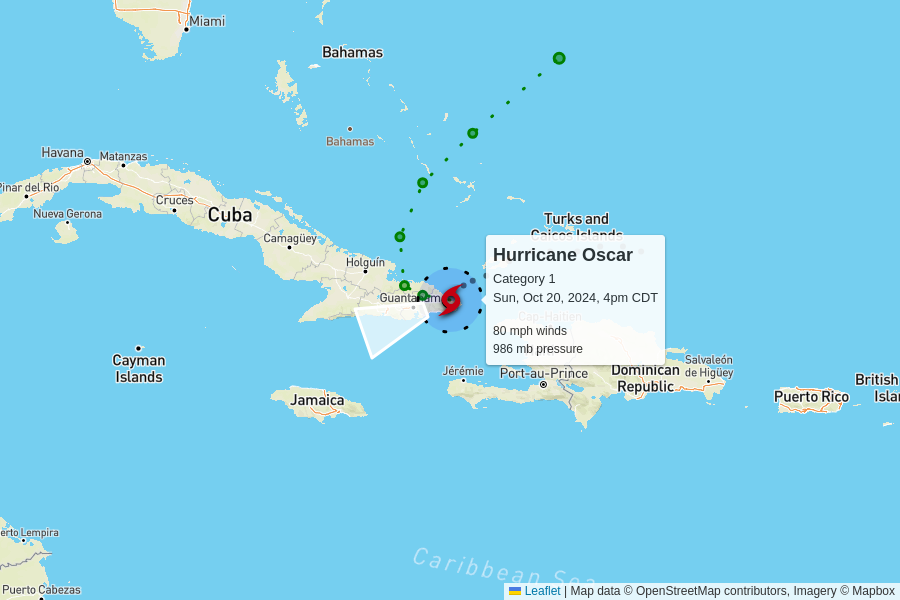
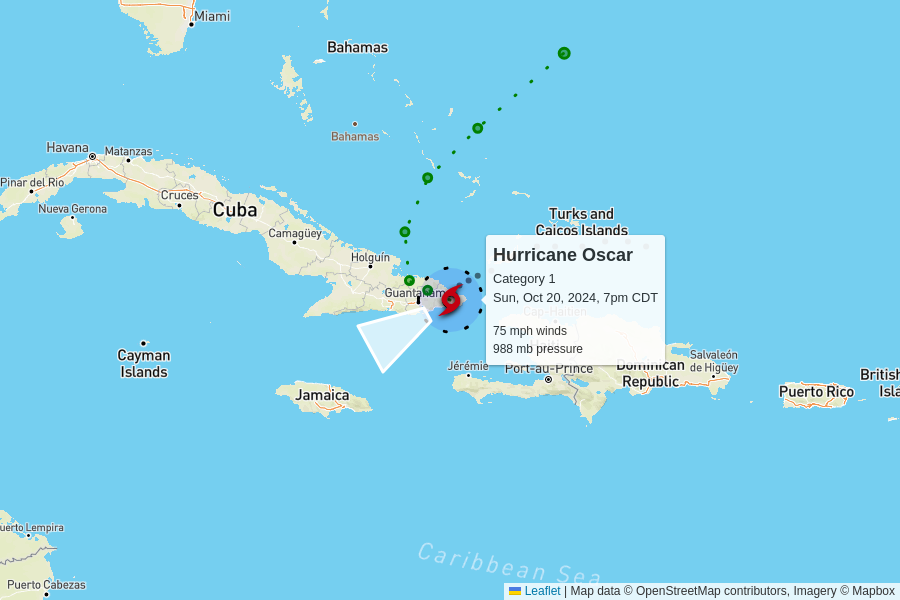
automatic update

diff --git a/docs/index.html b/docs/index.html
@@ -102,7 +102,7 @@
         <td colspan="6" class="storm category-1" >
           <h2>
             Hurricane Oscar - Category 1
-            <p class="updated">last updated <span data-time>2024-10-20T21:50:00.000Z</span></p>
+            <p class="updated">last updated <span data-time>2024-10-21T00:00:00.000Z</span></p>
           </h2>
         </td>
       </tr>
@@ -117,12 +117,12 @@
       </tr>
       <tr>
         <td class="spacer"></td>
-        <td>80 mph<br>0 mph since last update</td>
-        <td>986 mb<br>0 mb since last update</td>
+        <td>75 mph<br>-5 mph since last update</td>
+        <td>988 mb<br>+2 mb since last update</td>
         <td>
-          7 mph to the west-southwest
+          6 mph to the west-southwest
           <br/>
-          <span style="display: inline-block; font-size: 1.5em; transform: rotate(250deg);">↑</span>
+          <span style="display: inline-block; font-size: 1.5em; transform: rotate(240deg);">↑</span>
         </td>
         <td><a href="https://raw.githubusercontent.com/mgwalker/atlantic-hurricanes/main/data/csv/AL162024.csv">AL162024.csv</a></td>
         <td><a href="https://www.nhc.noaa.gov/archive/2024/OSCAR.shtml?">NHC advisories</a></td>
